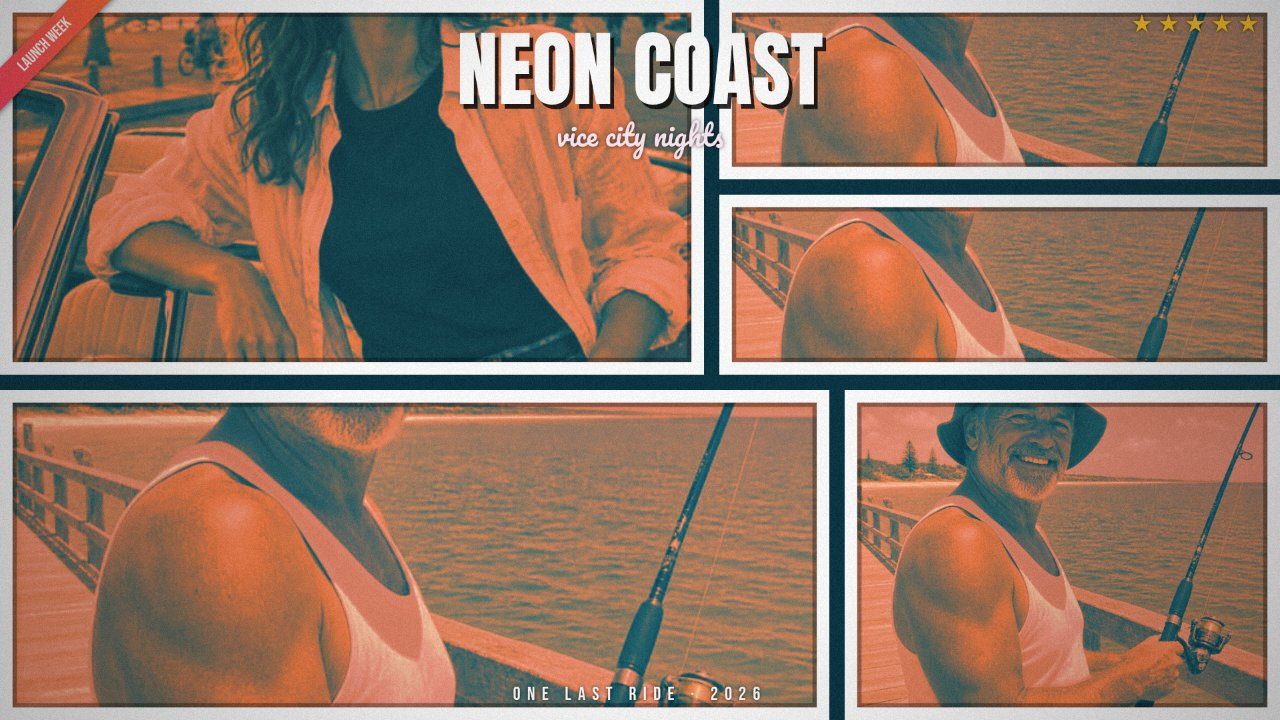
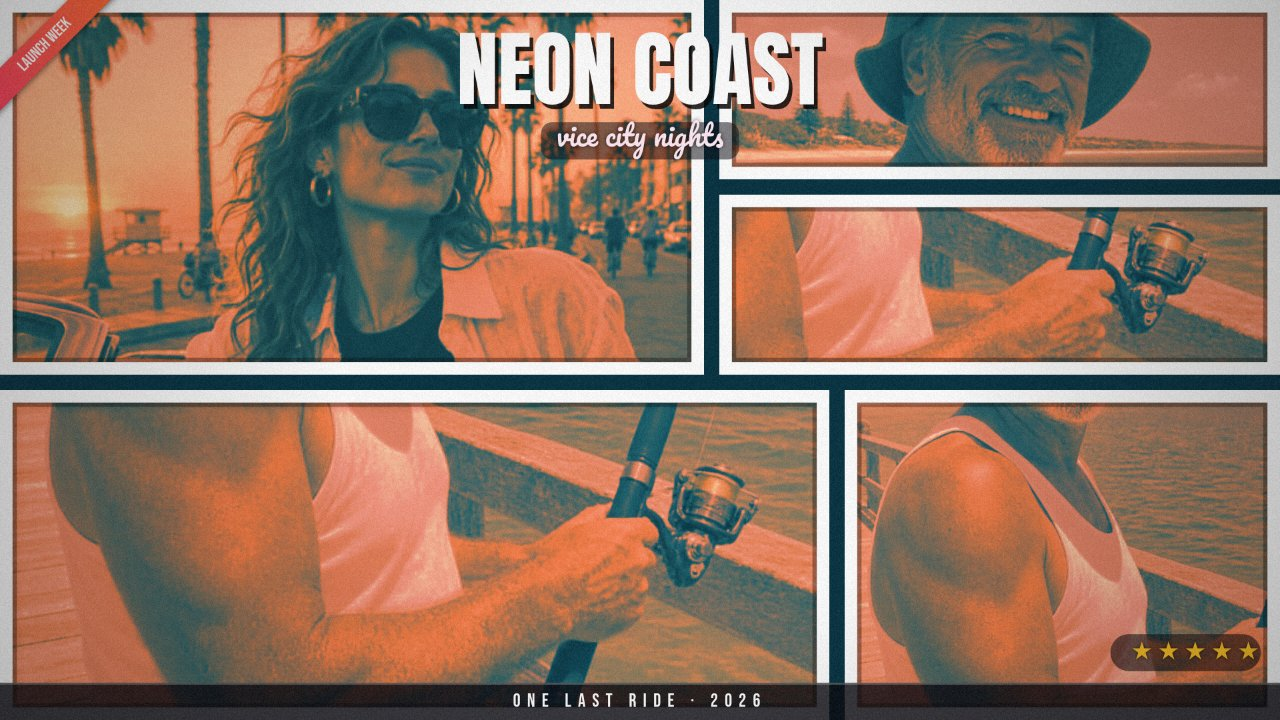
Vice Panels: fix audit findings — per-panel crops, hero focal point, full editor shot, lettering placement

diff --git a/app/src/cover.js b/app/src/cover.js
@@ -272,6 +272,17 @@ export function drawTitleBlock(ctx, state, W, H) {
   if (state.subtitle) {
     const sSize = Math.max(14, Math.round(size * 0.34));
     ctx.font = `${sSize}px Pacifico, cursive`;
+    // A soft dark scrim behind the subtitle keeps the script lettering
+    // legible where it straddles panel borders and bright photo areas.
+    if (!a.plate && !a.band) {
+      const sw = ctx.measureText(state.subtitle).width;
+      const padX = sSize * 0.55, padY = sSize * 0.30;
+      const rx = a.align === 'left' ? baseX - padX : baseX - sw / 2 - padX;
+      ctx.fillStyle = 'rgba(5,5,14,0.52)';
+      ctx.beginPath();
+      ctx.roundRect(rx, y - padY * 0.4, sw + padX * 2, sSize + padY * 1.1, sSize * 0.4);
+      ctx.fill();
+    }
     ctx.shadowColor = 'rgba(0,0,0,0.7)'; ctx.shadowBlur = 6;
     ctx.fillStyle = '#ffe9f4';
     ctx.fillText(state.subtitle, baseX, y);
@@ -282,27 +293,40 @@ export function drawTitleBlock(ctx, state, W, H) {
 
   if (state.tagline) {
     ctx.save();
-    ctx.textAlign = 'center'; ctx.textBaseline = 'alphabetic';
+    // The tagline lives in its own backing strip along the bottom edge,
+    // clear of panel frames and anything busy in the photos.
     const tSize = Math.max(12, Math.round(H * 0.026));
+    const stripH = Math.max(30, Math.round(H * 0.052));
+    ctx.fillStyle = 'rgba(5,5,12,0.82)';
+    ctx.fillRect(0, H - stripH, W, stripH);
+    ctx.fillStyle = 'rgba(255,255,255,0.28)';
+    ctx.fillRect(0, H - stripH, W, Math.max(1, Math.round(stripH * 0.05)));
+    ctx.textAlign = 'center'; ctx.textBaseline = 'middle';
     ctx.font = `${tSize}px "Bebas Neue", sans-serif`;
     try { ctx.letterSpacing = `${Math.round(tSize * 0.35)}px`; } catch { /* older engines */ }
-    ctx.shadowColor = 'rgba(0,0,0,0.8)'; ctx.shadowBlur = 5;
     ctx.fillStyle = '#ffffff';
-    ctx.fillText(state.tagline.toUpperCase(), W / 2, H * 0.972);
+    ctx.fillText(state.tagline.toUpperCase(), W / 2, H - stripH / 2 + 1);
     ctx.restore();
   }
 }
 
-// Five-star wanted/heat meter; (x, y) is the top-right corner anchor.
+// Five-star wanted/heat meter; (x, y) anchors the pill's top-right corner.
+// A dark backing pill keeps the stars readable over any photo content.
 export function drawHeatMeter(ctx, x, y, heat, size = 30) {
   ctx.save();
+  const pillW = 5 * size * 1.08 + size * 0.7;
+  const pillH = size * 1.5;
+  ctx.fillStyle = 'rgba(5,5,12,0.58)';
+  ctx.beginPath();
+  ctx.roundRect(x - pillW, y, pillW, pillH, pillH / 2);
+  ctx.fill();
   ctx.textAlign = 'center'; ctx.textBaseline = 'middle';
   ctx.font = `${size}px sans-serif`;
   for (let i = 0; i < 5; i++) {
     const cx = x - (4 - i) * (size * 1.08) - size / 2;
     ctx.shadowColor = 'rgba(0,0,0,0.75)'; ctx.shadowBlur = 5;
     ctx.fillStyle = i < heat ? '#ffc21f' : 'rgba(255,255,255,0.35)';
-    ctx.fillText('★', cx, y + size / 2);
+    ctx.fillText('★', cx, y + size * 0.75);
   }
   ctx.restore();
 }
@@ -332,14 +356,27 @@ export function drawBadgeRibbon(ctx, W, H, text) {
 }
 
 let noiseCanvas = null;
+// Seeded PRNG (mulberry32) so the film grain — and therefore every render
+// of the same state — is deterministic across runs and machines.
+function mulberry32(seed) {
+  let a = seed >>> 0;
+  return () => {
+    a = (a + 0x6d2b79f5) >>> 0;
+    let t = a;
+    t = Math.imul(t ^ (t >>> 15), t | 1);
+    t ^= t + Math.imul(t ^ (t >>> 7), t | 61);
+    return ((t ^ (t >>> 14)) >>> 0) / 4294967296;
+  };
+}
 function getNoise(size = 256) {
   if (noiseCanvas) return noiseCanvas;
   noiseCanvas = document.createElement('canvas');
   noiseCanvas.width = size; noiseCanvas.height = size;
   const nctx = noiseCanvas.getContext('2d');
   const img = nctx.createImageData(size, size);
+  const rand = mulberry32(0x5eed1234);
   for (let i = 0; i < img.data.length; i += 4) {
-    const v = Math.floor(Math.random() * 256);
+    const v = Math.floor(rand() * 256);
     img.data[i] = v; img.data[i + 1] = v; img.data[i + 2] = v; img.data[i + 3] = 255;
   }
   nctx.putImageData(img, 0, 0);
@@ -438,7 +475,16 @@ export function renderCover(canvas, state) {
 
   drawTitleBlock(ctx, state, W, H);
   if (state.badgeOn) drawBadgeRibbon(ctx, W, H, state.badge);
-  if (state.heat > 0) drawHeatMeter(ctx, W * 0.985, H * 0.018, state.heat, Math.max(18, Math.round(H * 0.034)));
+  if (state.heat > 0) {
+    const hSize = Math.max(18, Math.round(H * 0.034));
+    const stripH = Math.max(30, Math.round(H * 0.052));
+    // Scenes may move the meter to the bottom-right, above the tagline
+    // strip, when the top-right corner of the composition holds a face.
+    const hy = state.heatAnchor === 'bottom-right'
+      ? H - stripH - hSize * 1.5 - H * 0.016
+      : H * 0.018;
+    drawHeatMeter(ctx, W * 0.985, hy, state.heat, hSize);
+  }
 
   if (state.vignette) {
     const vg = ctx.createRadialGradient(W / 2, H / 2, Math.min(W, H) * 0.42, W / 2, H / 2, Math.max(W, H) * 0.78);

diff --git a/app/src/shots.js b/app/src/shots.js
@@ -5,20 +5,54 @@
 import { renderCover } from './cover.js';
 import { loadImage } from './photos.js';
 
+// Per-panel crops for each scene: every panel shows its own region of its
+// photo (offsetX/offsetY in -1..1, zoom >= 1), so no crop ever repeats.
+// 'B' is the boulevard photo, 'P' the pier photo.
+const SCENE_CROPS = {
+  'cover-land': [
+    ['B', 0, 0.8, 1],        // hero: focal point raised so her face is in frame
+    ['P', 0.75, 0.65, 1.35], // fisherman's face and shoulder, close
+    ['P', -0.85, -0.55, 1.5],// rod and open water, right side
+    ['P', -0.25, -0.75, 1.1],// railing and lower water, wide bottom panel
+    ['P', 0.55, -0.35, 1.45],// torso, hands and reel
+  ],
+  'cover-port': [
+    ['B', 0, 0.85, 1.05],    // her face, top of the boulevard photo
+    ['P', 0.8, 0.7, 1.5],    // fisherman's face, close
+    ['B', -0.5, -0.4, 1.35], // car door and jeans, lower boulevard
+    ['P', -0.8, 0.3, 1.3],   // rod against the sky
+    ['B', 0.45, 0.1, 1.2],   // her torso, centre (behind the title plate)
+    ['P', 0.15, -0.8, 1.15], // pier railing and waterline
+    ['P', 0.9, -0.5, 1.6],   // hands and reel, tight
+    ['B', -0.85, 0.75, 1.5], // palms and sky, top corner of the boulevard
+    ['P', 0, 0, 1.05],       // the full pier scene, near-centre
+  ],
+  'cover-square': [
+    ['B', 0.3, 0, 1],        // hero: her face already sits in this tall crop
+    ['P', 0.8, 0.7, 1.5],    // fisherman's face, close
+    ['P', -0.75, -0.2, 1.35],// rod and water, right side
+    ['P', 0.3, -0.85, 1.2],  // railing and hands, low
+  ],
+};
+
 export const SHOTS = {
   'cover-land': {
     width: 1920, height: 1080,
-    state: { layout: 'grid', grade: 'vice-sunset' },
+    // Top-right panel is a face close-up, so the meter sits bottom-right.
+    state: { layout: 'grid', grade: 'vice-sunset', heatAnchor: 'bottom-right' },
   },
   'cover-port': {
     width: 1080, height: 1350,
-    state: { layout: 'nine', grade: 'vice-sunset', title: 'NEON COAST' },
+    // The top-right panel holds a face, so the heat meter moves to the
+    // bottom-right, above the tagline strip.
+    state: { layout: 'nine', grade: 'vice-sunset', title: 'NEON COAST', heatAnchor: 'bottom-right' },
   },
   'cover-square': {
     width: 1080, height: 1080,
     state: {
       layout: 'hero-stack', grade: 'neon-night',
       title: 'MIDNIGHT PALMS', subtitle: 'after dark', heat: 4,
+      heatAnchor: 'bottom-right',
     },
   },
 };
@@ -59,9 +93,9 @@ export async function runShot(name) {
   } catch { /* fall back to system fonts */ }
 
   const state = { ...baseShotState(), ...shot.state };
-  const count = { grid: 5, 'hero-stack': 4, nine: 9, fullbleed: 1, tilted: 3, duo: 2 }[state.layout] || 5;
-  state.panels = Array.from({ length: count }, (_, i) => ({
-    img: i === 0 ? boulevard : pier, offsetX: 0, offsetY: 0, zoom: 1,
+  const crops = SCENE_CROPS[name] || [];
+  state.panels = crops.map(([which, offsetX, offsetY, zoom]) => ({
+    img: which === 'B' ? boulevard : pier, offsetX, offsetY, zoom,
   }));
 
   renderCover(canvas, state);

diff --git a/app/src/main.js b/app/src/main.js
@@ -35,12 +35,27 @@ function ensurePanels() {
   if (state.selectedPanel >= n) state.selectedPanel = 0;
 }
 
+// Each panel starts from its own crop of its photo, so the default cover
+// never repeats the same region twice.
+const DEFAULT_CROPS = [
+  { offsetX: 0, offsetY: 0.35, zoom: 1 },
+  { offsetX: -0.6, offsetY: 0.55, zoom: 1.3 },
+  { offsetX: -0.85, offsetY: -0.55, zoom: 1.5 },
+  { offsetX: -0.25, offsetY: -0.75, zoom: 1.1 },
+  { offsetX: 0.55, offsetY: -0.35, zoom: 1.45 },
+  { offsetX: 0.8, offsetY: 0.7, zoom: 1.5 },
+  { offsetX: -0.5, offsetY: 0.2, zoom: 1.3 },
+  { offsetX: 0.15, offsetY: -0.8, zoom: 1.15 },
+  { offsetX: -0.85, offsetY: 0.75, zoom: 1.5 },
+];
+
 function assignDefaults() {
   ensurePanels();
   const picks = defaultPanelAssignments(store, panelCount());
   state.panels.forEach((p, i) => {
     const entry = picks[i];
     if (entry) { p.img = entry.img; p.photoId = entry.id; }
+    Object.assign(p, DEFAULT_CROPS[i % DEFAULT_CROPS.length]);
   });
 }
 
@@ -205,9 +220,11 @@ function wireControls() {
   $('#sample-boulevard').addEventListener('click', () => assignSample('boulevard'));
   $('#sample-pier').addEventListener('click', () => assignSample('pier'));
 
-  $('#export-square').addEventListener('click', () => { previewSize = { w: 1080, h: 1080 }; exportPNG(1080, 1080); render(); });
-  $('#export-port').addEventListener('click', () => { previewSize = { w: 1080, h: 1350 }; exportPNG(1080, 1350); render(); });
-  $('#export-land').addEventListener('click', () => { previewSize = { w: 1920, h: 1080 }; exportPNG(1920, 1080); render(); });
+  // Exports render offscreen at the requested size; the preview canvas
+  // keeps whatever shape it already has.
+  $('#export-square').addEventListener('click', () => exportPNG(1080, 1080));
+  $('#export-port').addEventListener('click', () => exportPNG(1080, 1350));
+  $('#export-land').addEventListener('click', () => exportPNG(1920, 1080));
   $('#export-all').addEventListener('click', () => {
     exportPNG(1080, 1080);
     setTimeout(() => exportPNG(1080, 1350), 250);
